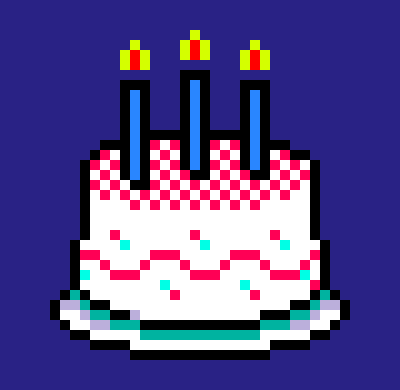
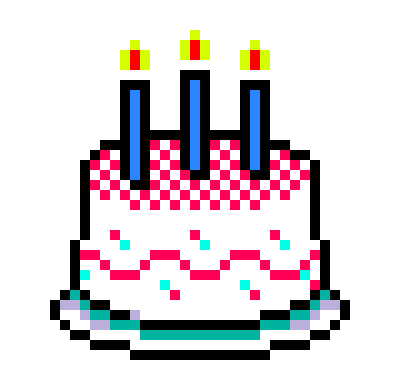
Cake improvements

diff --git a/sword/automated.py b/sword/automated.py
@@ -59,7 +59,7 @@ def dialogue_all(name,image,text):
     blackBarRectPos = (128,display_height-128)
     blackBarRectSize = (display_width-128,128)
     pygame.draw.rect(gameDisplay,(0,0,0),pygame.Rect(blackBarRectPos,blackBarRectSize))
-    pygame.draw.rect(gameDisplay,(0,0,0),pygame.Rect((0,display_height-128),(128,128)))
+    pygame.draw.rect(gameDisplay,(255,0,0),pygame.Rect((0,display_height-128),(128,128)))
     gameDisplay.blit(icon,(0,display_height-128))
     char_pos = 0
     text2 = text[0:char_pos]
@@ -87,6 +87,9 @@ def intro():
    chest = 'closed'
    show_key = False
    show_bear = False
+   show_cake = False
+   cake_x = 290
+   cake_y = 5
 
    pop_sound = pygame.mixer.Sound("sound/pop.wav")
    pygame.mixer.init()
@@ -114,6 +117,10 @@ def intro():
    key     = spritesheet.image_at( (ts*7,ts*131,ts,ts),-1 )
    bear    = spritesheet.image_at( (ts*3,ts*128,ts,ts),-1 )
    heart   = pygame.image.load('tiles/heart.png')
+
+   cake_hover = pygame.image.load('tiles/cake.png')
+   cake_hover.set_colorkey(cake_hover.get_at((0,0)), pygame.RLEACCEL)
+   cake_hover = pygame.transform.scale(cake_hover, (scalesize*4,scalesize*4))
 
    cat1 = Character('cat2', -100, 20)
    cat2 = Character('cat2', 900, 40)
@@ -272,6 +279,8 @@ def intro():
          gameDisplay.blit(key, (390,350))
       if show_bear:
          gameDisplay.blit(bear, (358,353))
+      if show_cake:
+         gameDisplay.blit(cake_hover, (cake_x,cake_y))
 
 
 
@@ -429,10 +438,15 @@ def intro():
          phase = 27
 
       if phase == 27:
-         cake = pygame.image.load('tiles/cake.png')
-         cake = pygame.transform.scale(cake, (scalesize*2,scalesize*2))
-         dialogue_all('everybody', cake,'HAPPY BIRTHDAY GRANDPA!')
-         phase = 28
+         show_cake = True
+         frame_counter = frame_counter + 1
+         if frame_counter > 100:
+            frame_counter = 0
+            cake = pygame.image.load('tiles/cake.png')
+            cake.set_colorkey(cake.get_at((0,0)), pygame.RLEACCEL)
+            cake = pygame.transform.scale(cake, (scalesize*2,scalesize*2))
+            dialogue_all('everybody', cake,'HAPPY BIRTHDAY GRANDPA!')
+            phase = 28
 
       if phase == 28:
          dialogue(morgan,'We hope you have an amazing day!')
@@ -445,6 +459,7 @@ def intro():
             phase = 30
 
       if phase == 30:
+         show_cake = False
          dialogue(zander,'Mom, what\'s in the chest?')
          phase = 31
 
